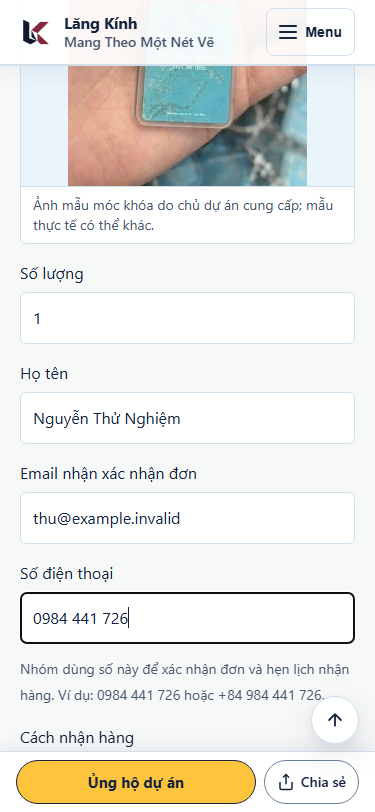
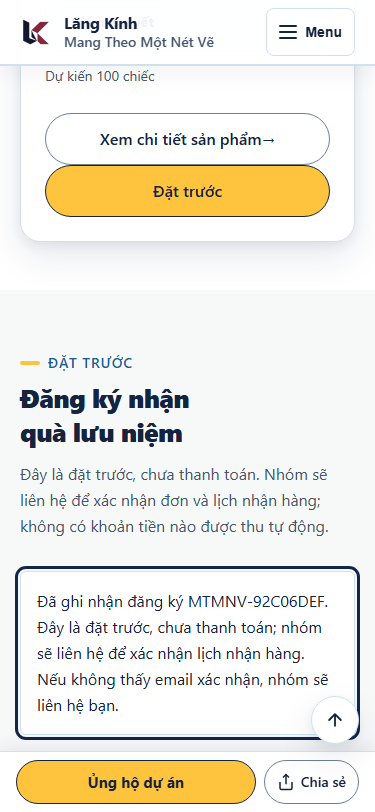
Record P1 form-hidden fix evidence

Changed region(s): [[0.0293, 0.431, 0.968, 0.9236], [0.0587, 0.0616, 0.88, 0.3695], [0.1173, 0.1539, 0.1467, 0.1847]]

diff --git a/docs/evidence/P1/worker/report.md b/docs/evidence/P1/worker/report.md
@@ -33,7 +33,10 @@ Trình duyệt (Chrome headless CDP, DPR 1, `verify.mjs` → `verification.json`
 4. **Ảnh móc khóa trong Studio**: tải WebP lên R2 và duyệt `mediaKey` như mục 4.
 
 ## Hạn chế thực
-Lab một máy Chrome headless; không có số liệu field/Lighthouse/AA. Biểu mẫu trên trang public gốc vẫn hiện dù API chưa phản hồi (lỗi `form[hidden]` có từ trước, ngoài phạm vi, không sửa). Bản xem trước là fixture cục bộ, không phản ánh API production. `isReferenceOnly` của ảnh móc khóa để `true` (ảnh mẫu). Chú thích mobile của hero bị bỏ cùng hộp nổi (xem mục 2).
+Lab một máy Chrome headless; không có số liệu field/Lighthouse/AA. Bản xem trước là fixture cục bộ, không phản ánh API production. `isReferenceOnly` của ảnh móc khóa để `true` (ảnh mẫu). Chú thích mobile của hero bị bỏ cùng hộp nổi (xem mục 2).
 
 ## Ghi chú commit
 Commit tài liệu `62d24c4` đã vô tình gộp các tệp do Codex sở hữu trong `docs/evidence/P1/review/`; commit kế tiếp gỡ chúng khỏi chỉ mục (tệp vẫn nguyên trên đĩa, không bị sửa/xóa, vẫn là của Codex). Không amend/reset để giữ lịch sử đúng quy tắc; nếu cần lịch sử sạch hơn hãy báo để xử lý riêng.
+
+## Sửa sau review độc lập (form ẩn và trạng thái thành công)
+Review phát hiện sau khi gửi thành công `form.hidden = true` nhưng CSS `display:grid` ghi đè nên các trường vẫn hiện. Đã thêm `.section-preorder form[hidden] { display: none; }` (đồng thời form không còn hiện khi API chưa sẵn sàng — lỗi có từ trước trên bản công khai), khối `#preorderSuccess` có khung/tabindex=-1, được cuộn vào giữa màn hình và nhận focus sau khi gửi; không đổi thiết kế khác. Kiểm (`success-check.mjs` → `success-check.json`, 375 và 1440): `formDisplay:none`, 0 trường còn hiển thị, thông báo thành công trong khung nhìn và đang focus. Đồng bộ BASELINE chặng ở backend (`src/data/campaign.ts`: statusNotice, currentStageIndex) đã có ở commit API; test chống lệch **không bị nới** (98/98).
